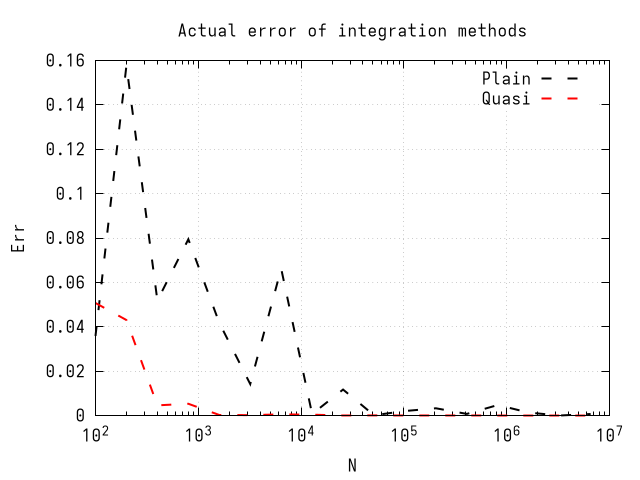
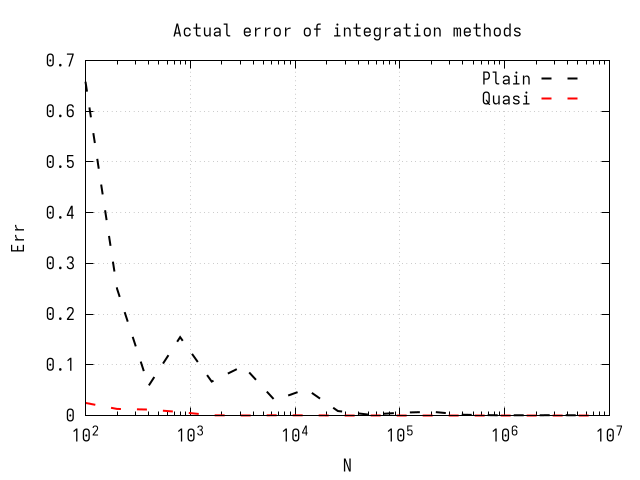
MC

diff --git a/homework/MonteCarlo/montecarlo.h b/homework/MonteCarlo/montecarlo.h
@@ -7,6 +7,26 @@ using vector = std::vector<double>;
 using tuple = std::tuple<double, double>;
 using Func = std::function<double(vector)>;
 
+
+struct rng {
+    uint32_t seed;
+    uint32_t a;
+    uint32_t c;
+    uint64_t m;
+
+    rng(uint seed_in, uint32_t a_in = 1664525, uint32_t c_in = 1013904223, uint64_t m_in = std::pow(2, 32)){
+        seed = seed_in; a = a_in; c = c_in; m = m_in;
+    }
+
+    rng() = default;
+    ~rng() = default;
+
+    double uniform(double low=0, double high=1) {
+        seed = (a * seed + c) % m;
+        return (high-low) * (seed+1)/(m+1) + low;
+    }
+};
+
 // Random double between lo and hi
 double randd(double lo, double hi) {
     static std::mt19937_64 rng(std::random_device{}());
@@ -74,6 +94,21 @@ tuple plainmc(Func f, vector& a, vector& b, int N) {
     return {mean*V, std::sqrt(var2/N)*V};
 }
 
+tuple cppmc(Func f, vector& a, vector& b, int N) {
+    int dim = a.size(); 
+    double V=1.0; for(int i=0; i<dim; i++) V *= b[i]-a[i];
+    double sum1=0.0; double sum2=0.0;
+    rng rand(42);
+
+    for (int i=0; i<N; i++) {
+        vector x(dim); for(int j=0; j<dim; j++) x[j] = rand.uniform(a[j], b[j]);
+        double fx = f(x); sum1+=fx; sum2+=fx*fx;
+    }
+
+    // Mean and variance
+    double mean = sum1/N; double var2 = sum2/N-mean*mean;
+    return {mean*V, std::sqrt(var2/N)*V};
+}
 
 tuple quacimc(Func f, vector& a, vector& b, int N) {
     int dim = a.size();
@@ -82,7 +117,7 @@ tuple quacimc(Func f, vector& a, vector& b, int N) {
     Halton halton(dim);
 
     // First sequence 
-    for (int i=0; i<0.5*N; i++) {
+    for (int i=1; i<=0.5*N; i++) {
         vector x_new = halton.random_doubles(i);
         vector x(dim);
         for (int j=0; j<dim; j++) {
@@ -92,7 +127,7 @@ tuple quacimc(Func f, vector& a, vector& b, int N) {
     }
 
     // Second
-    for (int i=0.5*N+1; i<N; i++) {
+    for (int i=0.5*N+1; i<=N; i++) {
         vector x_new = halton.random_doubles(i);
         vector x(dim);
         for (int j=0; j<dim; j++) {
@@ -102,7 +137,9 @@ tuple quacimc(Func f, vector& a, vector& b, int N) {
     }
 
     // Mean and variance
-    double mean = (sum1+sum2)/N; double err = std::abs(sum1-sum2)/N;
+    double mean = (sum1+sum2)/N; 
+    double err = std::abs(sum1-sum2)/(0.5*N);
+
     return {mean*V, err*V};
 }
 
@@ -117,12 +154,18 @@ tuple stratifiedmc(Func f, vector& a, vector& b, int N, int nmin=100) {
     // Sample nmin points
     std::vector<vector> pts(nmin, vector(dim));
     vector fvals(nmin);
+    rng rand(42);
+
+    double sum1 = 0, sum2 = 0;
 
     for (int i=0; i<nmin; i++) {
         for(int j=0; j<dim; j++) {
-            pts[i][j] = randd(a[j], b[j]);
+            pts[i][j] = rand.uniform(a[j], b[j]);
         }
         fvals[i] = f(pts[i]);
+
+        sum1 += fvals[i];
+        sum2 += fvals[i]*fvals[i];
     }
 
     return {0.0,0.0};

diff --git a/homework/MonteCarlo/main.cc b/homework/MonteCarlo/main.cc
@@ -19,18 +19,19 @@ int main() {
         out1 << N << " " << val << " " << err << "\n";
     }
     
-    // Watson Triple Integral
-    auto watson = [](vector x) -> double {
-        double term = 1; for(int i=0; i<3; i++) term *= cos(x[i]);
-        return 1/(1-term)/M_PI/M_PI/M_PI;
+    // Elipsoid 
+    double ep_a=1.0, ep_b=2.0, ep_c=3.0;
+    auto elipsoid = [ep_a,ep_b,ep_c](vector x) -> double {
+        double value = x[0]*x[0]/(ep_a*ep_a) + x[1]*x[1]/(ep_b*ep_b) + x[2]*x[2]/(ep_c*ep_c);
+        return (value <= 1.0) ? 1.0 : 0.0;
     };
 
-    vector a2 = {1e-8, 1e-8, 1e-8}; vector b2 = {M_PI, M_PI, M_PI};
+    vector a2 = {-ep_a, -ep_b, -ep_c}; vector b2 = {ep_a, ep_b, ep_c};
     int N = 5e6;
-    auto [val, err] = plainmc(watson, a2, b2, N);
-    double exact = 1.393203929685676859;
+    auto [val, err] = plainmc(elipsoid, a2, b2, N);
+    double exact = 4.0/3.0 * M_PI * ep_a * ep_b * ep_c;
 
-    std::cout << " - Watson Triple Integral \n";
+    std::cout << " - Ellipsoid Volume Integral \n";
     std::cout << "Estimated: " << val << std::endl;
     std::cout << "Exact:     " << exact << std::endl;
     std::cout << "Est Error: " << err << std::endl;
@@ -47,13 +48,31 @@ int main() {
 
     double exact3 = 4.0; // Actual integral value
     std::ofstream out2("sine.data");
-        out2 << "N err_plain err_quasi \n";
-        for (int N=1e2; N<1e7; N*=2) {
-            auto [valp, ep] = plainmc(sine_wave, a3, b3, N);
-            auto [valq, eq] = quacimc(sine_wave, a3, b3, N);
-            double err_p = std::abs(exact3-valp); double err_q = std::abs(exact3-valq); 
-            out2 << N << " " << err_p << " " << err_q << "\n";
-        }
+    out2 << "N err_plain err_quasi \n";
+    for (int N=1e2; N<1e7; N*=2) {
+        auto [valp, ep] = plainmc(sine_wave, a3, b3, N);
+        auto [valq, eq] = quacimc(sine_wave, a3, b3, N);
+        double err_p = std::abs(exact3-valp); double err_q = std::abs(exact3-valq); 
+        out2 << N << " " << err_p << " " << err_q << "\n";
+    }
+
+    auto cos_func = [](vector x) -> double {
+        double val = 1.0; for(int i=0;i<3;i++) val*= std::cos(x[i]);
+        return 1.0 / (1.0-val) / std::pow(M_PI, 3);
+    }; 
+
+    vector a4 = {1e-6, 1e-6, 1e-6}; vector b4 = {M_PI, M_PI, M_PI};
+    double exact4 = 1.3932039296856768591842462603255;
+
+    auto [valp, ep] = plainmc(cos_func, a4, b4, 1e6);
+    auto [valc, ec] = cppmc(cos_func, a4, b4, 1e6);
+    auto [valq, eq] = quacimc(cos_func, a4, b4, 1e6);
+
+    std::cout << "\n\n - Cos Integral \n";
+    std::cout << "plainmc: " << valp << " ± " << ep << std::endl;    
+    std::cout << "cppmc:   " << valc << " ± " << ec << std::endl;
+    std::cout << "quacimc: " << valq << " ± " << eq << std::endl;
+    std::cout << "Exact:   " << exact4 << std::endl;
 
 
     return 0;
